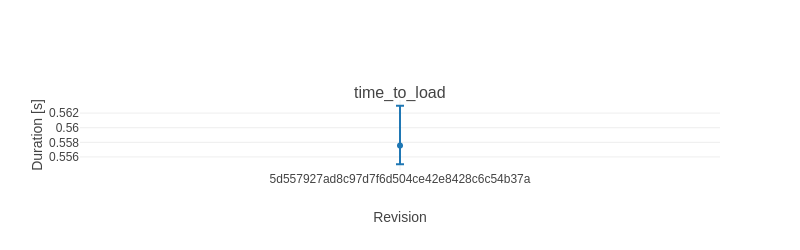
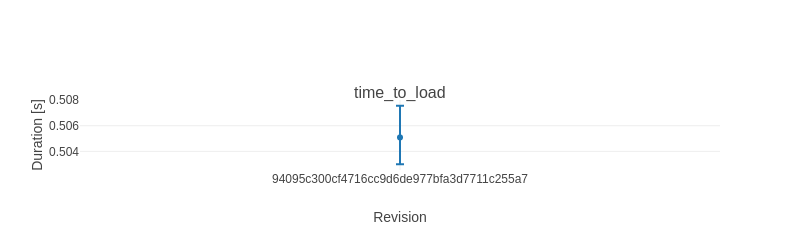
Deploying to benchmarks from @ EpiAware/ReparameterisedDistributions.jl@94095c300cf4716cc9d6de977bfa3d7711c255a7 🚀

Changed region(s): [[0.3125, 0.672, 0.6875, 0.756], [0.0625, 0.364, 0.125, 0.644]]

diff --git a/history/table.md b/history/table.md
@@ -1,8 +1,8 @@
-|              | 5d557927ad8c97... |
+|              | 94095c300cf471... |
 |:-------------|:-----------------:|
-| time_to_load | 0.558 ± 0.008 s   |
+| time_to_load | 0.505 ± 0.0045 s  |
 
-|              | 5d557927ad8c97...       |
+|              | 94095c300cf471...       |
 |:-------------|:-----------------------:|
 | time_to_load | 0.149 k allocs: 11.2 kB |
 

diff --git a/history/README.md b/history/README.md
@@ -1,6 +1,6 @@
 # ReparameterisedDistributions.jl benchmark history
 
-Revisions: 5d557927ad8c97d7f6d504ce42e8428c6c54b37a
+Revisions: 94095c300cf4716cc9d6de977bfa3d7711c255a7
 
 See `table.md` for the ratio summary and the PNG
 files in this folder for per-benchmark timelines.